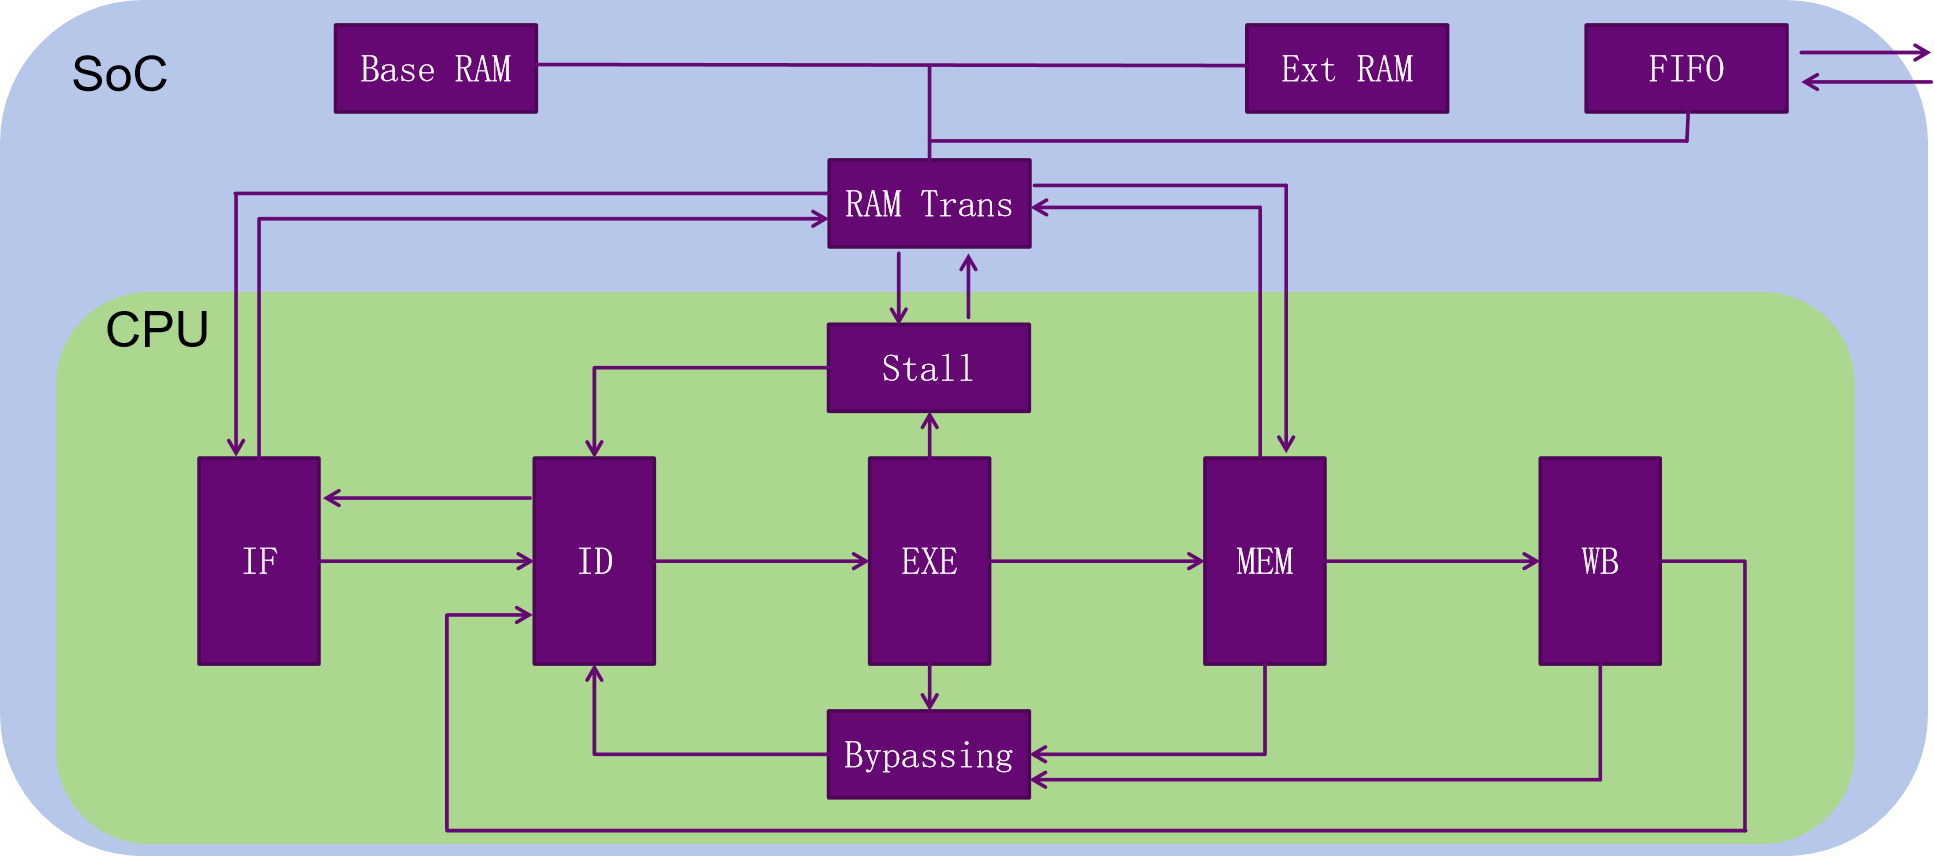
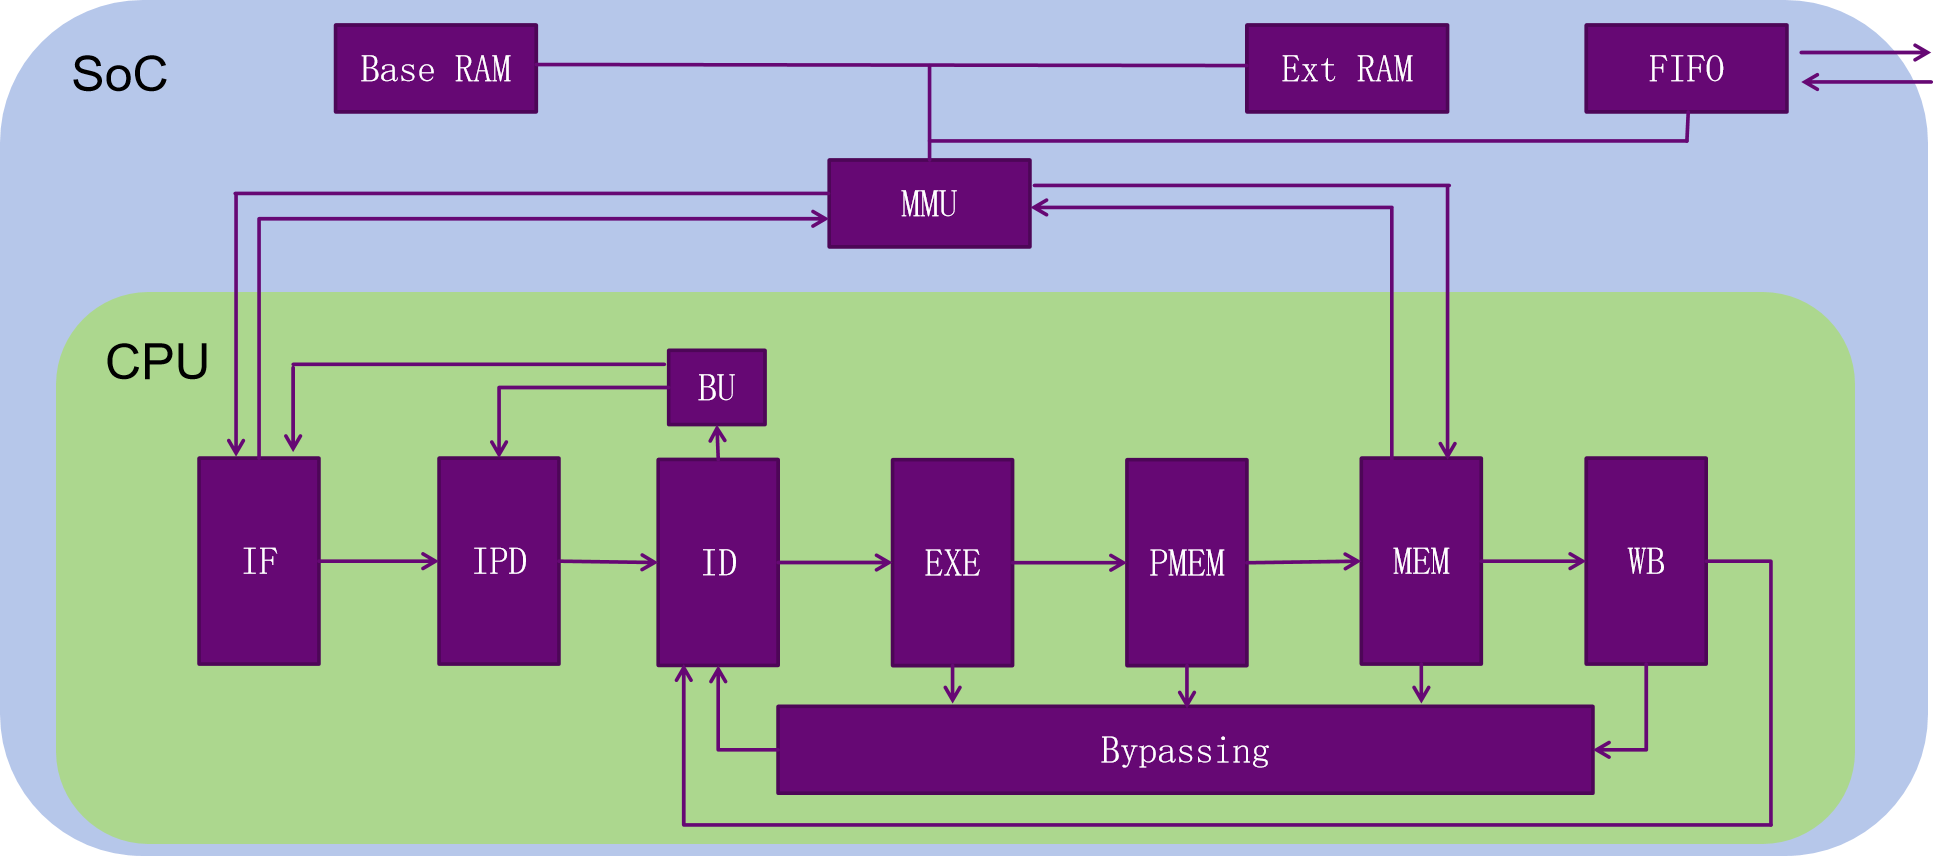
update:更新README.md，添加模块说明性文档

diff --git a/docs/各模块设计文档.md b/docs/各模块设计文档.md
@@ -1,0 +1,52 @@
+# 模块说明文档（待更新）
+
+暂时先对各个非流水级的模块进行一个简要说明，其他模块待更新。
+
+## WakeUP
+
+唤醒/阻塞模块。这里参考了超标量中的思想，把逻辑从`当数据未准备好时阻塞`改为`只有数据准备好了才允许发射`。目前我们有若干单元都需要用到来自寄存器的值，因此有若干个标志信号。
+
+分为三种：
+
+1. BU（BranchUnit）。跳转指令可能需要读寄存器，例如beq指令需要比较两个寄存器的值，才能决定是否跳转。因此需要判断BU模块的操作数是否已经可以从寄存器堆/旁路中读取。
+2. ALU。只有当ALU的源操作数准备好时，才允许当前流水级流动。
+3. Data RAM。数据RAM也需要来自寄存器堆的数据。例如，对于st.w指令，需要读两个寄存器，一个寄存器值参与地址运算，一个寄存器值决定写入该地址的数据。
+
+指令是否能够发射（ID_ready_go），是由该模块的所有生成信号共同决定的。
+
+## RegFile
+
+寄存器堆，设计上非常简单，类似一个二维数组。为保证一周期内能读完，设计两个读端口一个写端口。
+
+## Bypassing
+
+从ID流水级（该流水级准备好源操作数）开始，后续的模块都需要通过旁路模块，把**已经有效的写回寄存器堆的值**旁路回ID流水级，以使处在ID流水级的指令能更早的获得源操作数，减少气泡（bubble）的数量。
+
+可能需要把WB流水级对写回寄存器值的选择逻辑重复一遍。
+
+## BranchUnit
+
+该模块根据指令类型与源操作数决定：
+
+1. 是否为跳转指令
+2. 如果是跳转指令，是否要发生跳转
+3. 如果要发生跳转，跳转的目标地址是什么
+4. 跳转的目标地址是否与之前**预测**的跳转地址相同，相同证明分支预测正确，不同证明预测失败，把错误的指令从流水线中flush掉
+
+注意：
+
+- `之前预测的地址`实际上就是当前在IPD流水级的指令。
+
+## MMU
+
+完成：
+
+1. `Inst RAM`与`Data RAM`向`Base RAM`与`Ext RAM`的映射。这是因为在《CPU设计实战》中，我们使用的是哈佛架构，然而在NSCSCSC模板文件中，使用的是冯诺依曼架构，所有地址可读可写可执行。也就是说，存在先写入RAM某些数据，然后以指令格式读取并执行这些数据的可能。
+
+> 实际上对于功能测试3与性能测试，就是通过监控程序，把测试程序从串口写入到指定位置并执行。
+
+2. 对结构冒险的处理。如果两个访存行为映射到同一物理RAM，阻塞**取指令**流水级一周期。
+
+> 猜猜阻塞取数据的流水级会发生什么？
+
+3. 串口的控制。访存行为不一定映射到两块RAM，也有可能是映射到串口。通过访存指令的地址，我们可以判断是否是对串口的读写。

diff --git a/README.md b/README.md
@@ -8,7 +8,7 @@
 
 > :heavy_exclamation_mark: 流失级划分仅供参考!
 >
-> 分这么多流水级只是作者想写一个超过五级的流水线，本作品中流水级划分并不一定合理，并不一定带来主频上的收益。
+> 分这么多流水级只是作者想写一个超过五级的流水线，本作品中流水级划分并不一定合理，并没有带来主频上的收益。
 
 工程使用的综合工具为Vivado 2019.2，尽管如此，仍然可以使用低版本Vivado工具，通过新建一个工程并添加Verilog源代码的方式进行综合。
 
@@ -30,9 +30,9 @@
 - [x] 调试使通过三级功能测试与性能测试（commit：[v6.0](https://github.com/ykykzq/SimpleCPU/commit/9279d0921617b95811b0fab053dd8caafe28aa33)）
 - [ ] 补充设计文档、总体架构图等内容
 
-## 系统结构（待更新）
+## 系统结构
 
-系统的总体架构如下所示。
+系统的总体架构如下所示。详细设计参见[模块设计说明文档](./docs/各模块设计文档.md)。
 
 <img src="./images/project.png" alt="project" style="zoom:48%;" />
 
